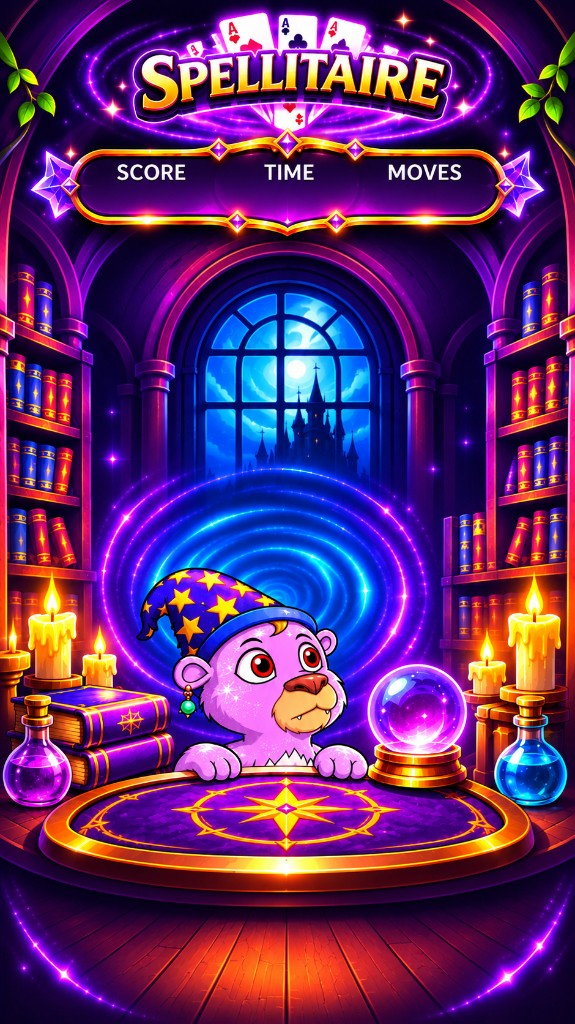
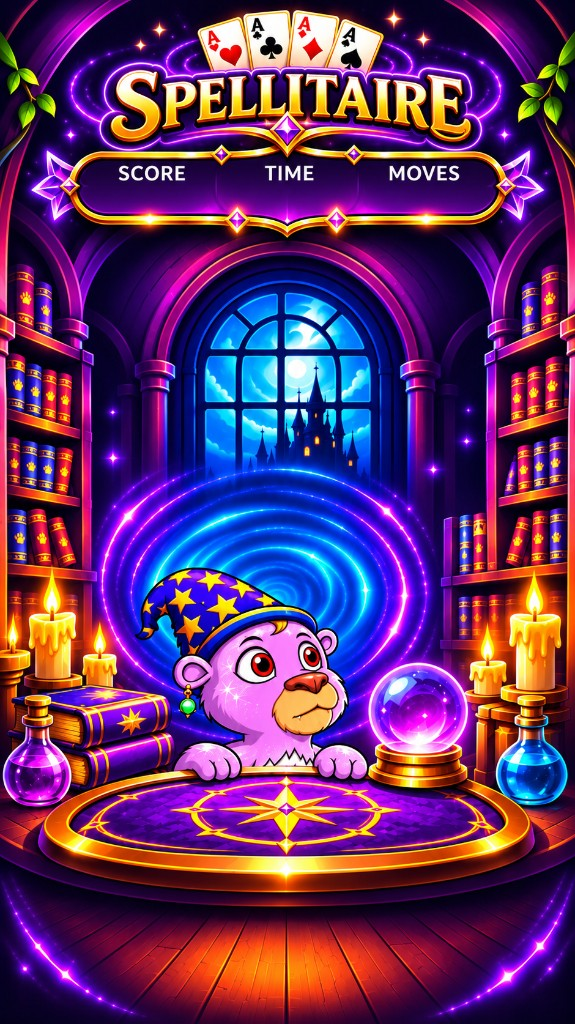
Game start screens and fixed Spellitaire background
Cupid Archery: How to Play button under Play, with the rules in their own panel.
Lazy River and Bubble Blast: Back button on the start panel to the games menu.
Kovu's Space Dash: start panel with Back, Play and How to Play.
Spellitaire: background with the corrected logo.

diff --git a/src/components/CupidArcher.tsx b/src/components/CupidArcher.tsx
@@ -3,7 +3,20 @@ import backgroundUrl from '../assets/cupid-archer/background-2.png'
 import cubUrl from '../assets/cupid-archer/cub.png'
 import coinUrl from '../assets/lazy-dojo/sprites/bonuses/kovu-coin.png'
 import lionPawUrl from '../assets/lion-paw-ui.png'
-import { ARCHER_XP_PER_SCORE, LIVES, ROUND_SECONDS } from '../game/cupidArcher/config'
+import {
+  ARCHER_XP_PER_SCORE,
+  BULLS_FOR_COINS,
+  LIVES,
+  MOVE_AXIS_SCORE,
+  MOVE_FREE_SCORE,
+  RING_BLUE,
+  RING_GOLD,
+  RING_RED,
+  RING_WHITE,
+  ROUND_SECONDS,
+  TIME_RED,
+  UNPAID_OPENING_SHOTS,
+} from '../game/cupidArcher/config'
 import { canvasRatio, layoutPoint, layoutSize } from '../game/frameScale'
 import {
   playBullseye,
@@ -123,6 +136,7 @@ function LivesHud({ lives }: { lives: number }) {
 export function CupidArcher({ best, onBest, onDailyStart, onDaily, onReward, onCoins, onExit, onGames, energy, onShop, powerBonus }: Props) {
   const [mode, setMode] = useState<Mode>('start')
   const [lowEnergy, setLowEnergy] = useState(false)
+  const [showHowTo, setShowHowTo] = useState(false)
   const [hud, setHud] = useState({ lives: LIVES, score: 0, time: ROUND_SECONDS, shots: 0, aiming: false })
   const [pullHint, setPullHint] = useState({ x: 0, y: 0 })
   const [summary, setSummary] = useState<Summary | null>(null)
@@ -403,19 +417,53 @@ export function CupidArcher({ best, onBest, onDailyStart, onDaily, onReward, onC
             <div className="archer-home-cub-wrap" aria-hidden>
               <img className="archer-home-cub" src={cubUrl} alt="" />
             </div>
-            <div className="archer-panel">
-              <h2>Cupid Archery</h2>
-              <p>Drag back from the cub, then let go to shoot. 3 Lives - 60 second timer. Hit the bullseye to add time and lives.</p>
-              <p>
-                Cub Cash: after your first 5 shots, hit 2 bullseyes in a row for 1 Cub Cash, then 1 more for every bullseye
-                in a row after that. Any other ring or a miss ends the coin run, and you need 2 in a row again.
-              </p>
-              <p className="archer-best">Best Score {bestRef.current}</p>
-              {lowEnergy ? <p className="energy-note">Sleep or visit the shop to recover energy.</p> : null}
-              <button type="button" className="archer-btn" onClick={startRound}>
-                Play
-              </button>
-            </div>
+            {showHowTo ? (
+              <div className="archer-panel archer-how-panel">
+                <div className="archer-how-head">
+                  <button type="button" className="archer-how-back" onClick={() => setShowHowTo(false)}>
+                    ‹ Back
+                  </button>
+                  <h2>How to Play</h2>
+                </div>
+                <ul className="archer-how">
+                  <li>
+                    <strong>Shoot:</strong> drag back from the cub, then let go to fire an arrow at the target.
+                  </li>
+                  <li>
+                    <strong>Lives and time:</strong> you have {LIVES} lives and {ROUND_SECONDS} seconds. A miss costs a life.
+                    The game ends when you run out of lives or time.
+                  </li>
+                  <li>
+                    <strong>Points:</strong> bullseye {RING_RED}, gold ring {RING_GOLD}, blue ring {RING_BLUE}, white ring{' '}
+                    {RING_WHITE}.
+                  </li>
+                  <li>
+                    <strong>Bullseye bonus:</strong> +{TIME_RED} seconds and a life back (up to {LIVES}).
+                  </li>
+                  <li>
+                    <strong>Targets:</strong> they start still, slide from {MOVE_AXIS_SCORE} points and roam anywhere from{' '}
+                    {MOVE_FREE_SCORE}.
+                  </li>
+                  <li>
+                    <strong>Cub Cash:</strong> after your first {UNPAID_OPENING_SHOTS} shots, hit {BULLS_FOR_COINS} bullseyes in a
+                    row for 1 Cub Cash, then 1 more for every bullseye in a row after that. Any other ring or a miss ends the coin
+                    run, and you need {BULLS_FOR_COINS} in a row again.
+                  </li>
+                </ul>
+              </div>
+            ) : (
+              <div className="archer-panel">
+                <h2>Cupid Archery</h2>
+                <p className="archer-best">Best Score {bestRef.current}</p>
+                {lowEnergy ? <p className="energy-note">Sleep or visit the shop to recover energy.</p> : null}
+                <button type="button" className="archer-btn" onClick={startRound}>
+                  Play
+                </button>
+                <button type="button" className="archer-btn archer-btn-ghost" onClick={() => setShowHowTo(true)}>
+                  How to Play
+                </button>
+              </div>
+            )}
           </div>
         ) : null}
         {mode === 'over' && summary ? (

diff --git a/src/components/SafariFlight.tsx b/src/components/SafariFlight.tsx
@@ -86,6 +86,9 @@ export function SafariFlight({ best, onBest, onDailyStart, onDaily, onReward, on
   const [summary, setSummary] = useState<Summary | null>(null)
   const [started, setStarted] = useState(false)
   const [lowEnergy, setLowEnergy] = useState(false)
+  /** The start panel, shown when the game opens until the first flight begins. */
+  const [introOpen, setIntroOpen] = useState(true)
+  const [showHowTo, setShowHowTo] = useState(false)
 
   const awardFlight = () => {
     if (rewarded.current || phase.current !== 'play') return null
@@ -261,6 +264,7 @@ export function SafariFlight({ best, onBest, onDailyStart, onDaily, onReward, on
     playFlap()
     if (phase.current === 'ready') {
       setLowEnergy(false)
+      setIntroOpen(false)
       phase.current = 'play'
       ready.current = false
       gates.current = []
@@ -291,6 +295,22 @@ export function SafariFlight({ best, onBest, onDailyStart, onDaily, onReward, on
     flap()
   }
 
+  const goGames = () => {
+    if (summary) {
+      onGames()
+      return
+    }
+    if (phase.current === 'play') {
+      settle('leave')
+      return
+    }
+    if (!rewarded.current) {
+      rewarded.current = true
+      onReward(0, { ...moodFromScore(score.current), ...PLAY_NEED_COST })
+    }
+    onGames()
+  }
+
   return (
     <section className="game-screen flight">
       <header className="arcade-bar">
@@ -309,24 +329,7 @@ export function SafariFlight({ best, onBest, onDailyStart, onDaily, onReward, on
               onExit()
             }}
           />
-          <GamesButton
-            className="game-home game-games"
-            onClick={() => {
-              if (summary) {
-                onGames()
-                return
-              }
-              if (phase.current === 'play') {
-                settle('leave')
-                return
-              }
-              if (!rewarded.current) {
-                rewarded.current = true
-                onReward(0, { ...moodFromScore(score.current), ...PLAY_NEED_COST })
-              }
-              onGames()
-            }}
-          />
+          <GamesButton className="game-home game-games" onClick={goGames} />
         </div>
         <h1>Kovu's Space Dash</h1>
         <div className="arcade-scores" aria-label={`Score ${hudScore}, best ${Math.max(best, hudScore)}`}>
@@ -350,10 +353,55 @@ export function SafariFlight({ best, onBest, onDailyStart, onDaily, onReward, on
           onPointerDown={pointer}
           aria-label="Tap to flap"
         />
-        {!started && !summary ? (
+        {!started && !summary && !introOpen ? (
           <div className="tap-hint" aria-hidden="true">
             <span className="tap-ring" />
             <img className="tap-paw" src={lionPawUrl} alt="" />
+          </div>
+        ) : null}
+        {introOpen && !summary ? (
+          <div className="flight-intro">
+            {showHowTo ? (
+              <div className="flight-panel">
+                <div className="flight-panel-head">
+                  <button type="button" className="flight-panel-back" onClick={() => setShowHowTo(false)}>
+                    ‹ Back
+                  </button>
+                  <h2>How to Play</h2>
+                </div>
+                <ul className="flight-how">
+                  <li>
+                    <strong>Fly:</strong> tap the screen (or press Space) to flap. Kovu falls when you stop.
+                  </li>
+                  <li>
+                    <strong>Score:</strong> fly through the gaps between the pillars. Each gap cleared is 1 point.
+                  </li>
+                  <li>
+                    <strong>Cub Cash:</strong> grab the coin in every 10th gap for {COIN_VALUE} Cub Cash.
+                  </li>
+                  <li>
+                    <strong>Crash:</strong> hitting a pillar, the top or the ground ends the run.
+                  </li>
+                </ul>
+              </div>
+            ) : (
+              <div className="flight-panel">
+                <div className="flight-panel-head">
+                  <button type="button" className="flight-panel-back" onClick={onGames}>
+                    ‹ Back
+                  </button>
+                  <h2>Kovu's Space Dash</h2>
+                </div>
+                <p className="flight-best">Best Score {Math.max(best, hudScore)}</p>
+                {lowEnergy ? <p className="energy-note">Sleep or visit the shop to recover energy.</p> : null}
+                <button type="button" className="cabinet-key flight-panel-btn" onClick={flap}>
+                  Play
+                </button>
+                <button type="button" className="cabinet-key flight-panel-btn flight-panel-btn-light" onClick={() => setShowHowTo(true)}>
+                  How to Play
+                </button>
+              </div>
+            )}
           </div>
         ) : null}
       </div>

diff --git a/src/index.css b/src/index.css
@@ -4200,6 +4200,99 @@ h1 {
   margin-top: 0;
 }
 
+/* Start panel: shown when Space Dash opens, until the first flight. */
+.flight-intro {
+  position: absolute;
+  inset: 0;
+  z-index: 3;
+  display: grid;
+  place-items: center;
+  padding: 0 14px;
+  background: rgba(4, 6, 20, 0.35);
+}
+
+.flight-panel {
+  width: min(100%, 340px);
+  padding: 14px 14px 16px;
+  border: 1px solid rgba(126, 240, 255, 0.55);
+  border-radius: 14px;
+  background:
+    linear-gradient(180deg, rgba(126, 240, 255, 0.18), transparent 28%),
+    linear-gradient(180deg, #161c44, #07091a);
+  box-shadow: 0 0 18px rgba(126, 240, 255, 0.25);
+  color: #f4fbff;
+  text-align: center;
+}
+
+.flight-panel-head {
+  position: relative;
+}
+
+.flight-panel-head h2 {
+  margin: 0 0 8px;
+  padding: 0 64px;
+  color: #7ef0ff;
+  font-size: 1.15rem;
+  letter-spacing: 0.04em;
+  text-shadow: 0 0 8px rgba(126, 240, 255, 0.5);
+}
+
+.flight-panel-back {
+  position: absolute;
+  left: -2px;
+  top: -2px;
+  padding: 4px 10px;
+  border: 1px solid #7ef0ff;
+  border-radius: 6px;
+  background: rgba(126, 240, 255, 0.12);
+  color: #7ef0ff;
+  font: inherit;
+  font-size: 0.78rem;
+  font-weight: 800;
+}
+
+.flight-panel-back:active {
+  background: rgba(126, 240, 255, 0.28);
+}
+
+.flight-best {
+  margin: 0 0 6px;
+  color: #f0c14a;
+  font-family: ui-monospace, "Cascadia Mono", Consolas, monospace;
+  font-weight: 800;
+  letter-spacing: 0.06em;
+  text-shadow: 0 0 8px rgba(240, 193, 74, 0.5);
+}
+
+.flight-panel-btn {
+  display: block;
+  width: 100%;
+  margin-top: 8px;
+  font-size: 0.95rem;
+}
+
+.flight-panel-btn-light {
+  border-color: rgba(126, 240, 255, 0.5);
+  background: transparent;
+}
+
+.flight-how {
+  margin: 0;
+  padding: 0 0 0 16px;
+  text-align: left;
+  font-size: 0.86rem;
+  line-height: 1.38;
+  color: rgba(215, 247, 255, 0.9);
+}
+
+.flight-how li {
+  margin-bottom: 6px;
+}
+
+.flight-how strong {
+  color: #7ef0ff;
+}
+
 .flight-results-actions {
   display: grid;
   grid-template-columns: 1fr 1fr;
@@ -4959,6 +5052,49 @@ h1 {
 
 .archer-btn-ghost:active {
   box-shadow: none;
+}
+
+.archer-how-head {
+  position: relative;
+}
+
+.archer-how-back {
+  position: absolute;
+  left: -2px;
+  top: -2px;
+  z-index: 1;
+  padding: 4px 11px;
+  border: 2px solid #e08aa0;
+  border-radius: 14px;
+  background: rgba(255, 255, 255, 0.7);
+  color: #b13d55;
+  font: inherit;
+  font-size: 0.8rem;
+  font-weight: 800;
+  box-shadow: 0 2px 0 #e08aa0;
+}
+
+.archer-how-back:active {
+  transform: translateY(1px);
+  box-shadow: none;
+}
+
+.archer-how {
+  margin: 0;
+  padding: 0 0 0 16px;
+  max-height: min(52dvh, 360px);
+  overflow-y: auto;
+  text-align: left;
+  font-size: 0.86rem;
+  line-height: 1.35;
+}
+
+.archer-how li {
+  margin-bottom: 6px;
+}
+
+.archer-how strong {
+  color: #b13d55;
 }
 
 @keyframes archer-pulse {

diff --git a/src/components/BubbleBlast.tsx b/src/components/BubbleBlast.tsx
@@ -378,7 +378,12 @@ export function BubbleBlast({ best, onBest, onDailyStart, onDaily, onReward, onC
             <img className="bubble-home-cub" src={homeCubUrl} alt="" aria-hidden />
             {!showRules ? (
               <div className="bubble-panel">
-                <h2>Bubble Blast</h2>
+                <div className="bubble-rules-head">
+                  <button type="button" className="bubble-btn bubble-rules-back" onClick={() => leave(onGames)}>
+                    ‹ Back
+                  </button>
+                  <h2>Bubble Blast</h2>
+                </div>
                 <p className="bubble-best">Best Score {bestRef.current.toLocaleString('en-US')}</p>
                 {lowEnergy ? <p className="energy-note">Sleep or visit the shop to recover energy.</p> : null}
                 <button type="button" className="bubble-btn" onClick={startRun}>

diff --git a/src/components/LazyRiver.tsx b/src/components/LazyRiver.tsx
@@ -167,7 +167,12 @@ export function LazyRiver({ best, onBest, onDailyStart, onDaily, onReward, onCoi
         <div className="river-home">
           {!showRules ? (
             <div className="river-panel">
-              <h2>Lazy River</h2>
+              <div className="river-rules-head">
+                <button type="button" className="river-btn river-btn-light river-rules-back" onClick={() => leave(onGames)}>
+                  ‹ Back
+                </button>
+                <h2>Lazy River</h2>
+              </div>
               <p className="river-best">Best Score {bestRef.current.toLocaleString('en-US')}</p>
               {lowEnergy ? <p className="energy-note">Sleep or visit the shop to recover energy.</p> : null}
               {failed ? <p className="energy-note">The river could not load. Check your connection and try again.</p> : null}
